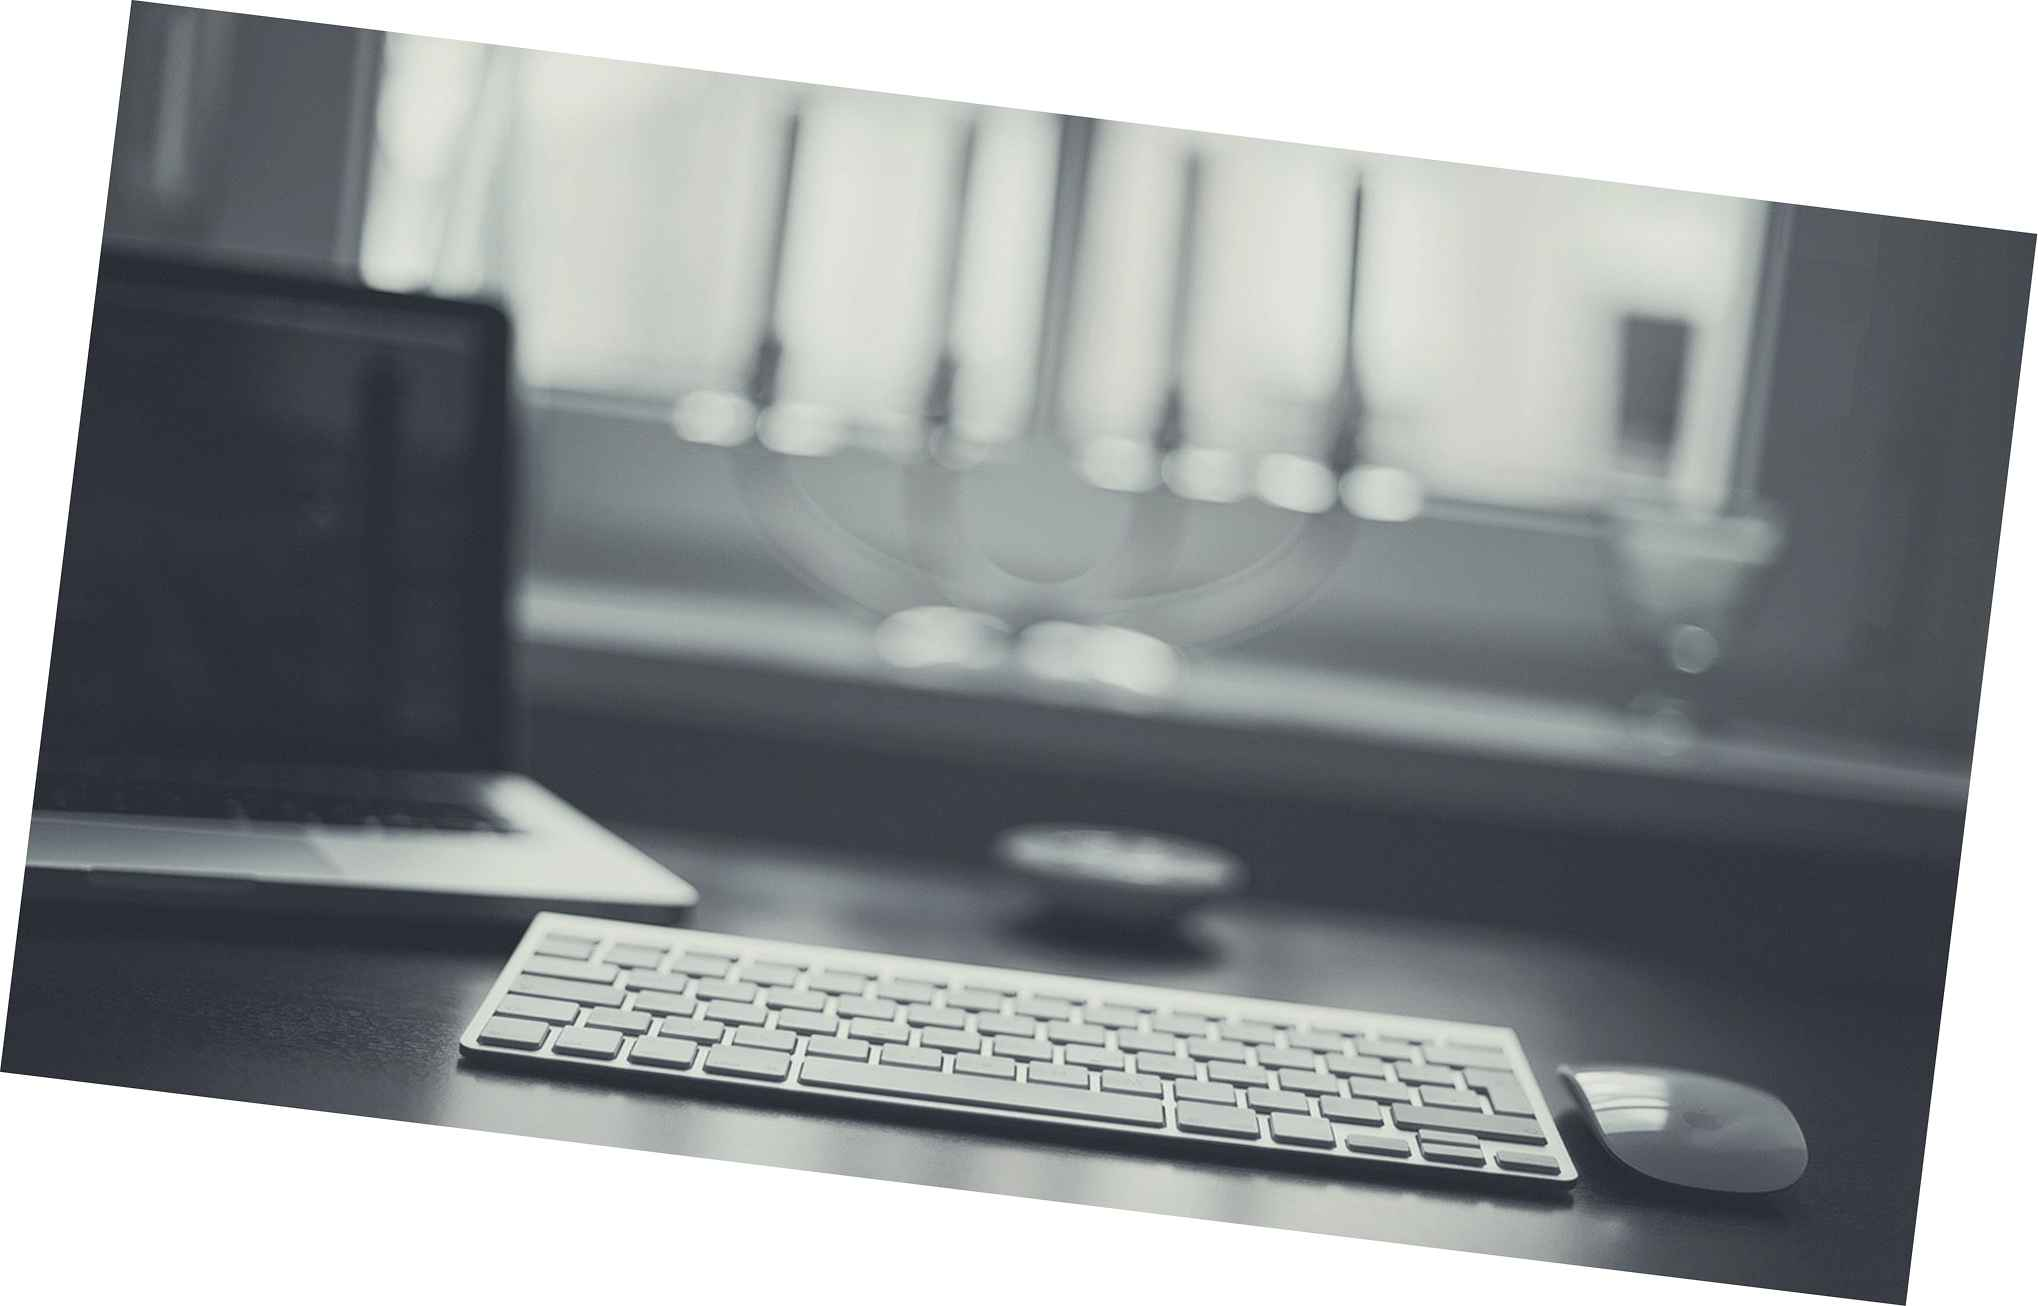
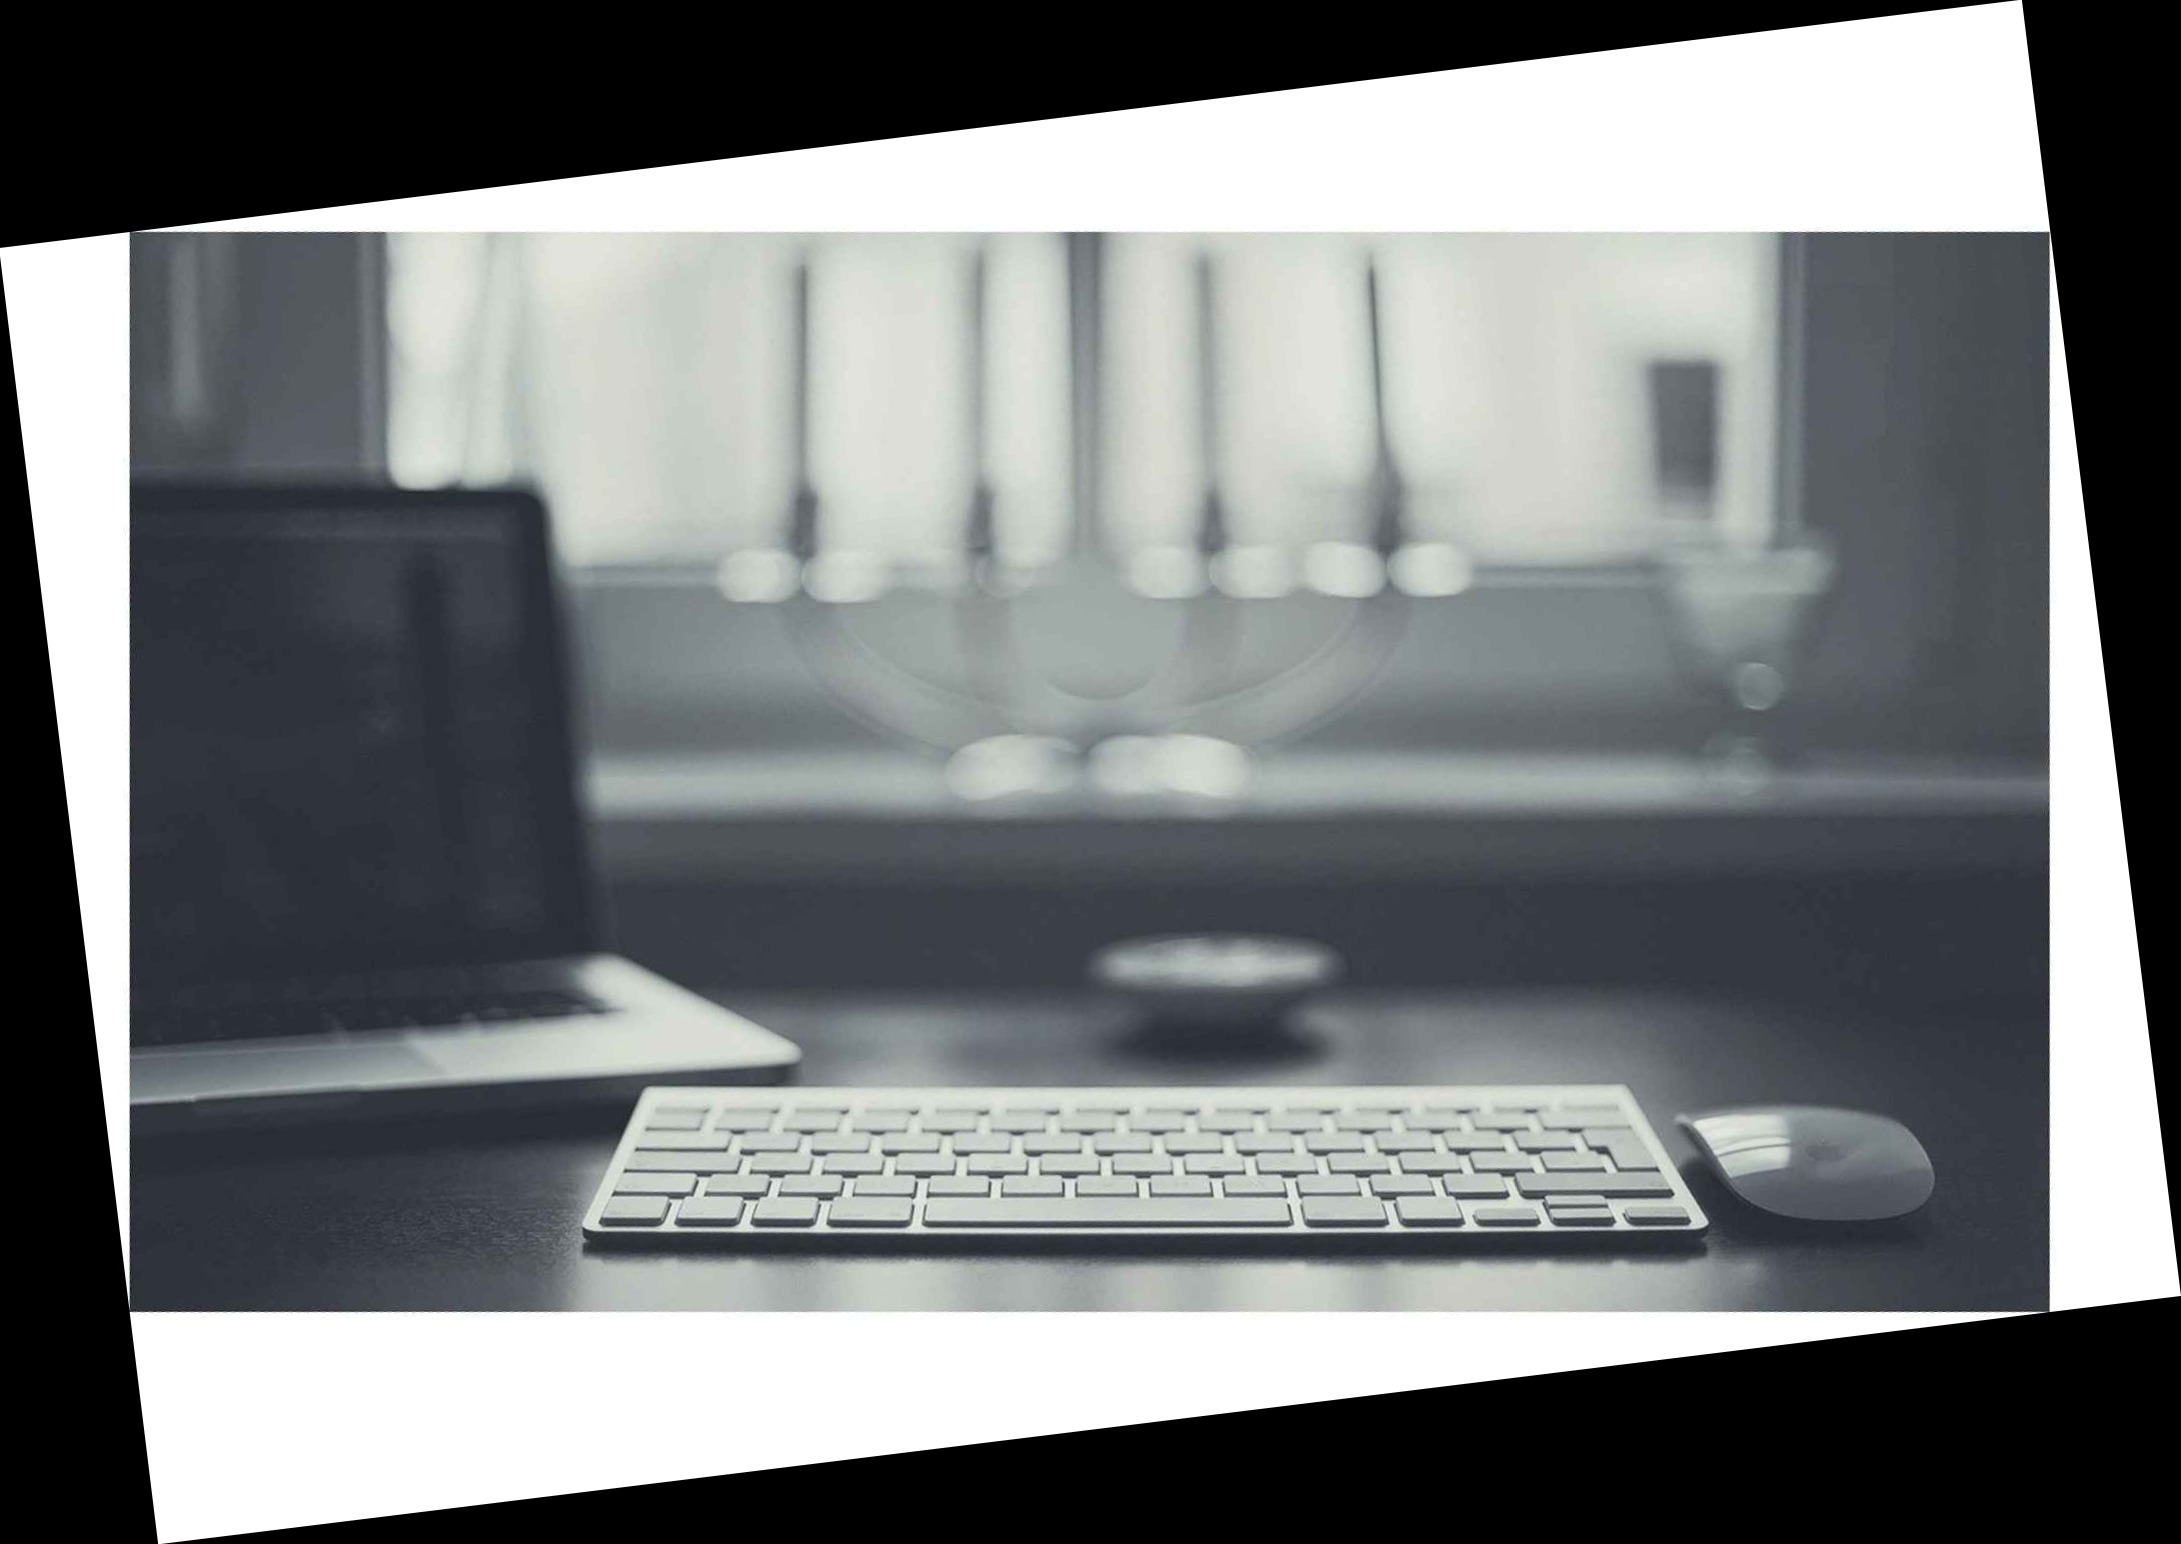
gray section & gradient section templates done

diff --git a/src/components/FooterSection.js b/src/components/FooterSection.js
@@ -1,0 +1,76 @@
+import React from 'react'
+import { Link } from 'gatsby'
+
+const FooterSection = props => (
+  <footer id='test' className='footer'>
+    <div className='footer__logo-box'>
+      <img
+        className='footer__logo-img'
+        src='/signature-v2.svg'
+        alt='footerLogo'
+      />
+    </div>
+    <div className='row'>
+      <div className='col-1-of-2'>
+        <div className='footer__navigation'>
+          <ul className='footer__list'>
+            <li className='footer__item'>
+              <a
+                onClick={props.handleGoingToHeader}
+                href='#'
+                className='footer__link'
+              >
+                Home
+              </a>
+            </li>
+            <li className='footer__item'>
+              <a
+                onClick={props.handleGoingToPort}
+                href='#'
+                className='footer__link'
+              >
+                Portfolio
+              </a>
+            </li>
+            <li className='footer__item'>
+              <a
+                href='https://github.com/realmohsin'
+                target='_blank'
+                className='footer__link'
+                rel='noopener'
+              >
+                Github
+              </a>
+            </li>
+            <li className='footer__item'>
+              <Link to='/resume' className='footer__link'>
+                Resume
+              </Link>
+            </li>
+            <li className='footer__item'>
+              <a href='mailto:realmohsin@outlook.com' className='footer__link'>
+                Email
+              </a>
+            </li>
+          </ul>
+        </div>
+      </div>
+      <div className='col-1-of-2'>
+        <p className='footer__copyright'>
+          &copy; 2018 by
+          <a
+            onClick={props.handleGoingToHeader}
+            href='#'
+            className='footer__link'
+          >
+            {' '}
+            &nbsp;Real Mohsin&nbsp;{' '}
+          </a>
+          All rights reserved.
+        </p>
+      </div>
+    </div>
+  </footer>
+)
+
+export default FooterSection

diff --git a/src/components/Layout.js b/src/components/Layout.js
@@ -2,6 +2,7 @@ import React from 'react'
 import { Helmet } from 'react-helmet'
 import { Global, css } from '@emotion/core'
 import HeaderSection from './HeaderSection'
+import FooterSection from './FooterSection'
 
 class Layout extends React.Component {
   render () {
@@ -25,7 +26,7 @@ class Layout extends React.Component {
           secondaryTitle='Designer & Developer'
         />
         {this.props.children}
-        {/* <FooterSection /> */}
+        <FooterSection />
       </>
     )
   }

diff --git a/src/emotion/colors.js b/src/emotion/colors.js
@@ -1,6 +1,7 @@
 export default {
-  primary: '#ffb900', // rgb(255, 185, 0)
-  primaryLight: '#ffb900', // rgb(255, 185, 0)
-  primaryDark: '#ff7730', // rgb(255, 119, 48)
-  grayBackground: '#f7f7f7'
+  primaryOne: '#ffb900', // rgb(255, 185, 0)
+  primaryTwo: '#ff7730', // rgb(255, 119, 48)
+  grayOne: '#f7f7f7'
+  // gradientBgFirst: '#d4841a',
+  // gradientBgSecond:
 }

diff --git a/src/components/GradientSection.js b/src/components/GradientSection.js
@@ -16,10 +16,10 @@ const gradientSectionCss = css`
       rgba(255, 185, 0, 0.7),
       rgba(255, 119, 48, 0.7)
     ),
-    url('/header-background.jpg');
-  background-size: cover;
+    url('/bg-gradient-section.jpg');
+  background-size: 150%;
   background-position: 45% 40%;
-  height: 970px;
+  height: 1235px;
   margin-top: -115px;
   padding: 115px 0;
 `

diff --git a/src/pages/index.js b/src/pages/index.js
@@ -9,6 +9,11 @@ class HomePage extends React.Component {
       <Layout>
         <GraySection />
         <GradientSection />
+        <GraySection />
+        <GradientSection />
+        <GraySection />
+        <GradientSection />
+        <GraySection />
       </Layout>
     )
   }

diff --git a/src/components/GraySection.js b/src/components/GraySection.js
@@ -11,8 +11,8 @@ const GraySection = props => {
 }
 
 const graySectionCss = css`
-  background-color: ${colors.grayBackground};
-  height: 970px;
+  background-color: ${colors.grayOne};
+  height: 985px;
   transform: skewY(-6deg);
   margin-top: -115px;
   padding: 115px 0;
